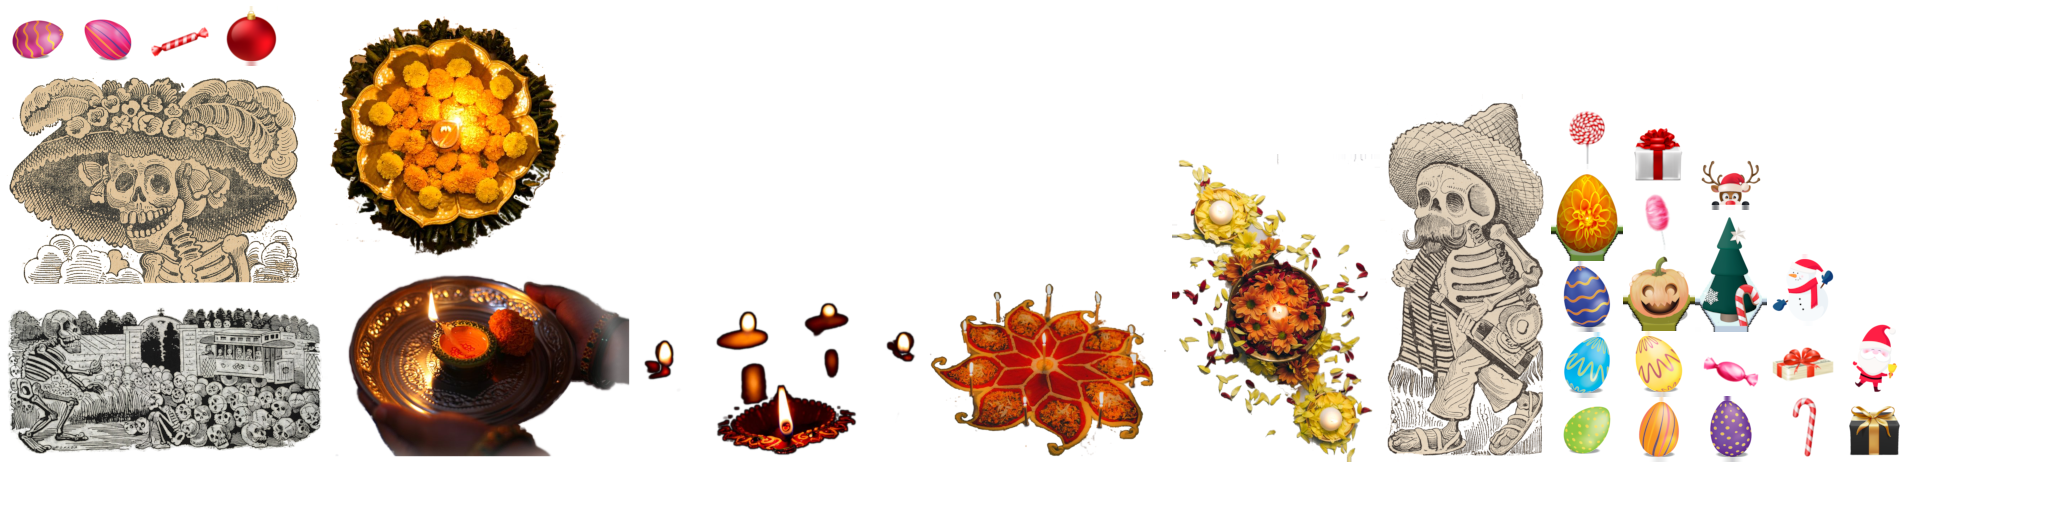
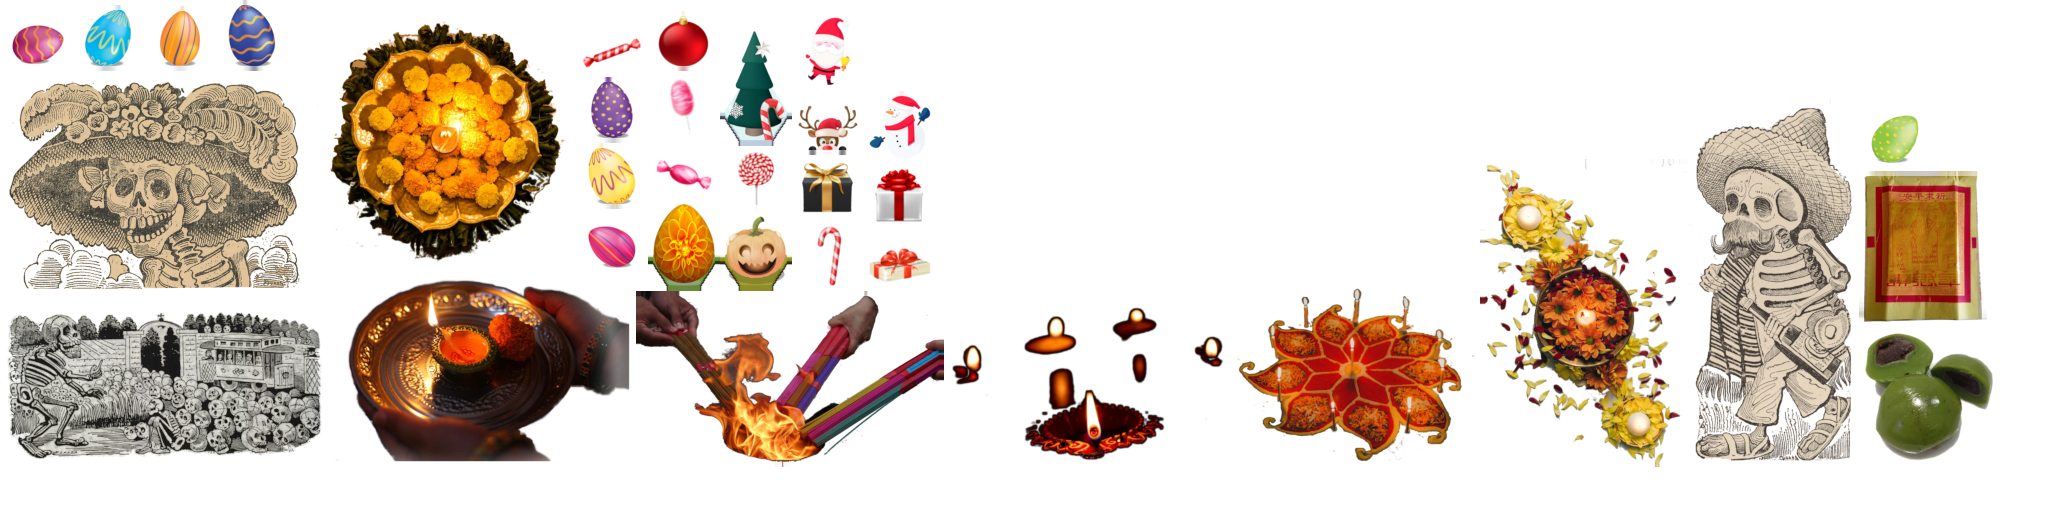
Add some Qingming stuff

diff --git a/core/src/com/unciv/logic/HolidayDates.kt b/core/src/com/unciv/logic/HolidayDates.kt
@@ -55,9 +55,7 @@ object HolidayDates {
             override fun getByYear(year: Int) =
                 DateRange.of(LocalDate.of(year, 11, 30).closestWeekday(DayOfWeek.SUNDAY))
         },
-        Qingming {
-            //todo add art and visualization
-
+        Qingming(floatingArt = "Qingming") {
             // https://en.wikipedia.org/wiki/Qingming_Festival
             // "it falls on the first day of the fifth solar term (also called Qingming) of the traditional Chinese lunisolar calendar.
             // This makes it the 15th day after the Spring Equinox, either 4, 5 or 6 April in a given year"

diff --git a/docs/Credits.md b/docs/Credits.md
@@ -732,6 +732,9 @@ Unless otherwise specified, all the following are from [the Noun Project](https:
 - [Top view of marigold flowers surrounded by Diya on tray](https://thenounproject.com/photo/5rAx20) by Scopio for Diwali easter egg (CC BY-NC-ND 2.0)
 - [Lit diyas in dark room](https://thenounproject.com/photo/5lKe70) by Scopio for Diwali easter egg (CC BY-NC-ND 2.0)
 - [Top view of orange and yellow flower petals in bowls with candles](https://thenounproject.com/photo/0vmgxb) by Scopio for Diwali easter egg (CC BY-NC-ND 2.0)
+- [Joss sticks](https://commons.wikimedia.org/wiki/File:Joss_sticks.jpg) by Hans Bernhard for easter eggs (GFDL-CC-BY-SA-all)
+- [Qingtuan](https://commons.wikimedia.org/wiki/File:Qingtuan_1.jpg) by Vtorok for easter eggs (CC-BY-SA 4.0)
+- [Dabai Shoujin joss paper](https://commons.wikimedia.org/wiki/File:%E5%A4%A7%E7%99%BE%E5%A3%BD%E9%87%91.jpg) by Sean Chiu for easter eggs (CC-BY-SA 4.0)
 - [AirSweep](https://thenounproject.com/icon/jet-134340/) by Creative Stall for Air Sweep icon
 - [Timer](https://www.flaticon.com/free-icon/stopwatch_563480) created by Gregor Cresnar Premium - Flaticon - for Game speeds civilopedia category
 - [Political Science](https://www.flaticon.com/premium-icon/political-science_5403775) created by Hilmy Abiyyu A. - Flaticon - for Global politics overview screen
